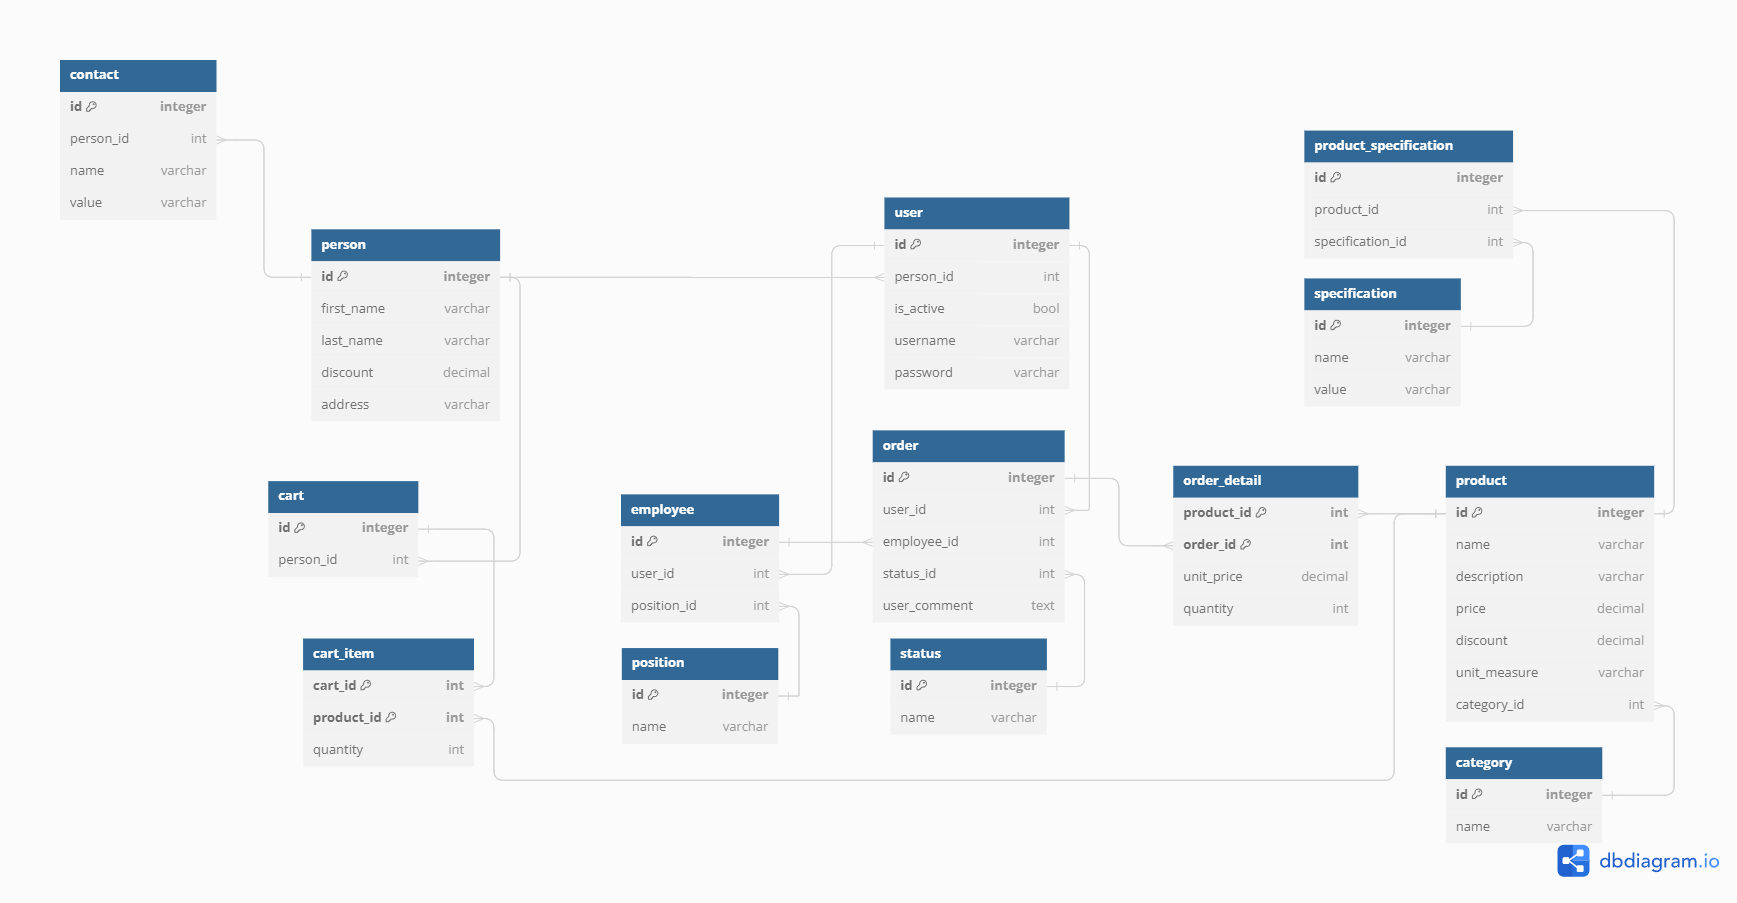
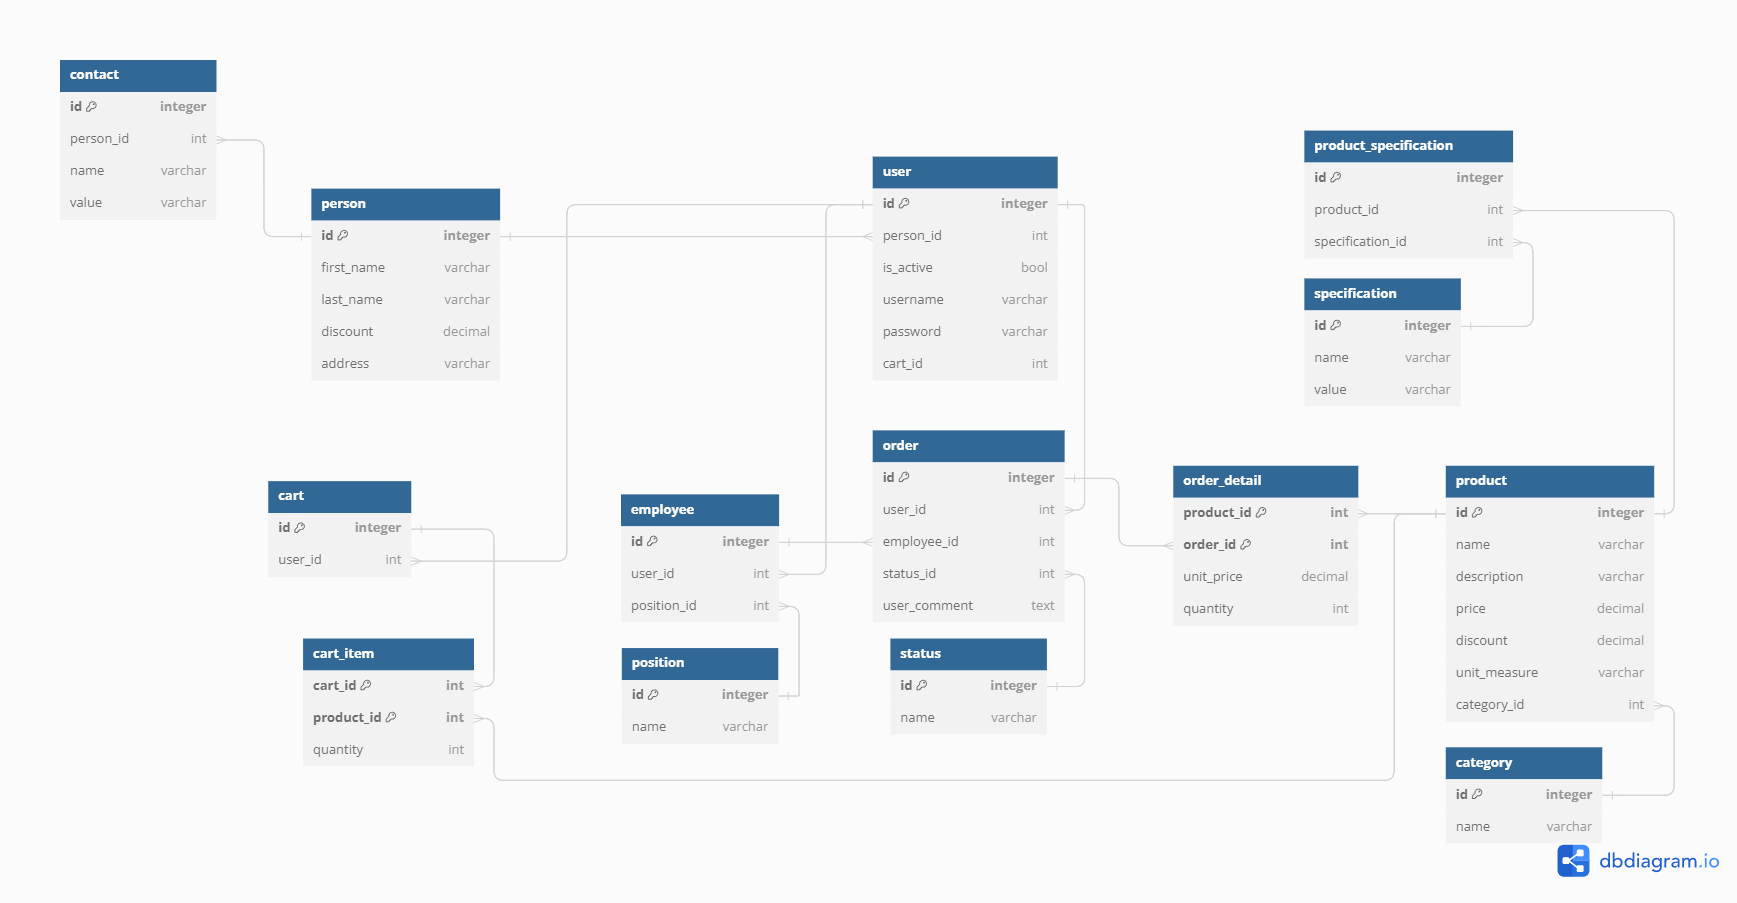
Configure entities.

diff --git a/ProductStoreApi/DataLayer/Infrastructure/StoreDbContext.cs b/ProductStoreApi/DataLayer/Infrastructure/StoreDbContext.cs
@@ -1,6 +1,7 @@
 using Microsoft.EntityFrameworkCore;
 using StoreDAL.Entities;
 using StoreDAL.Infrastructure.Data;
+using StoreDAL.Interfaces.Repositories;
 
 namespace StoreDAL.Infrastructure
 {
@@ -29,6 +30,7 @@ namespace StoreDAL.Infrastructure
 
         protected override void OnModelCreating(ModelBuilder modelBuilder)
         {
+			// Seed database
 			modelBuilder.Entity<IContactRepository>().HasData(factory.GetContactData());
 			modelBuilder.Entity<IPersonRepository>().HasData(factory.GetPersonData());
 			modelBuilder.Entity<IUserRepository>().HasData(factory.GetUserData());
@@ -40,7 +42,134 @@ namespace StoreDAL.Infrastructure
 			modelBuilder.Entity<IOrderRepository>().HasData(factory.GetOrderData());
 			modelBuilder.Entity<IOrderDetailRepository>().HasData(factory.GetOrderDetailData());
 
-            base.OnModelCreating(modelBuilder);
+			// Configure entities
+			modelBuilder.Entity<Contact>(entity =>
+			{
+				entity.HasOne(c => c.Person)
+					  .WithMany(p => p.Contacts)
+					  .HasForeignKey(c => c.PersonId);
+			});
+
+			modelBuilder.Entity<Person>(entity =>
+			{
+				entity.HasMany(p => p.Contacts)
+					  .WithOne(c => c.Person)
+					  .HasForeignKey(p => p.PersonId);
+
+				entity.HasOne(p => p.User)
+					  .WithOne(u => u.Person)
+					  .HasForeignKey<User>(u => u.PersonId);
+			});
+
+			modelBuilder.Entity<User>(entity =>
+			{
+				entity.HasOne(u => u.Person)
+					  .WithOne(p => p.User)
+					  .HasForeignKey<User>(p => p.PersonId);
+
+				entity.HasOne(u => u.Cart)
+					  .WithOne(c => c.User)
+					  .HasForeignKey<Cart>(c => c.UserId);
+
+				entity.HasMany(u => u.Orders)
+					  .WithOne(o => o.User)
+					  .HasForeignKey(o => o.UserId);
+			});
+
+			modelBuilder.Entity<Position>(entity =>
+			{
+				entity.HasMany(p => p.Employees)
+					  .WithOne(e => e.Position)
+					  .HasForeignKey(p => p.PositionId);
+			});
+
+			modelBuilder.Entity<Employee>(entity =>
+			{
+				entity.HasOne(e => e.User)
+					  .WithOne()
+					  .HasForeignKey<Employee>(e => e.UserId);
+
+				entity.HasOne(e => e.Position)
+					  .WithMany(p => p.Employees)
+					  .HasForeignKey(e => e.PositionId);
+			});
+
+			modelBuilder.Entity<Category>(entity =>
+			{
+				entity.HasMany(c => c.Products)
+					  .WithOne(p => p.Category)
+					  .HasForeignKey(p => p.CategoryId);
+			});
+
+			modelBuilder.Entity<Specification>(entity =>
+			{
+				entity.HasMany(s => s.Products)
+					  .WithMany(p => p.Specifications);
+			});
+
+			modelBuilder.Entity<Product>(entity =>
+			{
+				entity.HasOne(p => p.Category)
+					  .WithMany(c => c.Products)
+					  .HasForeignKey(p => p.CategoryId);
+
+				entity.HasMany(p => p.Specifications)
+					  .WithMany(s => s.Products);
+			});
+
+			modelBuilder.Entity<Order>(entity =>
+			{
+				entity.HasOne(o => o.User)
+					  .WithMany(u => u.Orders)
+					  .HasForeignKey(o => o.UserId);
+
+				entity.HasOne(o => o.Employee)
+					  .WithMany(e => e.Orders)
+					  .HasForeignKey(o => o.EmployeeId);
+
+				entity.HasOne(o => o.Status)
+					  .WithMany()
+					  .HasForeignKey(o => o.StatusId);
+
+				entity.HasMany(o => o.Details)
+					  .WithOne(d => d.Order)
+					  .HasForeignKey(d => d.OrderId);
+			});
+
+			modelBuilder.Entity<OrderDetail>(entity =>
+			{
+				entity.HasKey(d => new { d.ProductId, d.OrderId });
+
+				entity.HasOne(d => d.Order)
+					  .WithMany(o => o.Details)
+					  .HasForeignKey(d => d.OrderId);
+
+				entity.HasOne(d => d.Product)
+					  .WithMany()
+					  .HasForeignKey(d => d.ProductId);
+			});
+
+			modelBuilder.Entity<Cart>(entity =>
+			{
+				entity.HasOne(c => c.User)
+					  .WithOne(p => p.Cart)
+					  .HasForeignKey<Cart>(c => c.UserId);
+			});
+
+			modelBuilder.Entity<CartItem>(entity =>
+			{
+				entity.HasKey(i => new { i.ProductId, i.CartId });
+
+				entity.HasOne(i => i.Cart)
+					  .WithMany(c => c.CartItems)
+					  .HasForeignKey(i => i.CartId);
+
+				entity.HasOne(i => i.Product)
+					  .WithMany()
+					  .HasForeignKey(i => i.ProductId);
+			});
+
+			base.OnModelCreating(modelBuilder);
         }
     }
 }

diff --git a/ProductStoreApi/DataLayer/Entities/Cart.cs b/ProductStoreApi/DataLayer/Entities/Cart.cs
@@ -4,10 +4,10 @@ namespace StoreDAL.Entities
 {
 	public class Cart : BaseEntity
 	{
-		[Column("person_id")]
-		public long PersonId { get; set; }
+		[Column("user_id")]
+		public long UserId { get; set; }
 
-		public virtual Person Person { get; set; } = null!;
+		public virtual User User { get; set; } = null!;
 
 		public virtual IEnumerable<CartItem> CartItems { get; set; } = Enumerable.Empty<CartItem>();
 

diff --git a/ProductStoreApi/DataLayer/Entities/Person.cs b/ProductStoreApi/DataLayer/Entities/Person.cs
@@ -15,7 +15,7 @@ namespace StoreDAL.Entities
 		public string Address { get; set; } = string.Empty;
 
 		public virtual User User { get; set; } = null!;
-		public virtual Cart Cart { get; set; } = null!;
+		public virtual IEnumerable<Contact> Contacts { get; set; } = Enumerable.Empty<Contact>();
 
 		public Person(int id) : base(id) { }
 	}

diff --git a/ProductStoreApi/DataLayer/Entities/User.cs b/ProductStoreApi/DataLayer/Entities/User.cs
@@ -14,7 +14,7 @@ namespace StoreDAL.Entities
 		public string Password { get; set; } = null!;
 
 		public virtual Person Person { get; set; } = null!;
-
+		public virtual Cart Cart { get; set; } = null!;
 		public virtual IEnumerable<Order> Orders { get; set; } = Enumerable.Empty<Order>();
 
 		public User(int id) : base(id) { }

diff --git a/ProductStoreApi/DataLayer/Entities/Employee.cs b/ProductStoreApi/DataLayer/Entities/Employee.cs
@@ -14,6 +14,8 @@ namespace StoreDAL.Entities
 		public virtual User User { get; set; } = null!;
 		public virtual Position Position { get; set; } = null!;
 
+		public virtual IEnumerable<Order> Orders { get; set; }
+
 		public Employee(int id) : base(id) { }
 	}
 }

diff --git a/ProductStoreApi/DataLayer/Infrastructure/Data/IDataFactory.cs b/ProductStoreApi/DataLayer/Infrastructure/Data/IDataFactory.cs
@@ -1,9 +1,4 @@
-using System;
-using System.Collections.Generic;
-using System.Linq;
-using System.Text;
-using System.Threading.Tasks;
-using StoreDAL.Entities;
+using StoreDAL.Interfaces.Repositories;
 
 namespace StoreDAL.Infrastructure.Data
 {

diff --git a/ProductStoreApi/DataLayer/Infrastructure/Data/AbstractDataFactory.cs b/ProductStoreApi/DataLayer/Infrastructure/Data/AbstractDataFactory.cs
@@ -1,4 +1,4 @@
-using StoreDAL.Entities;
+using StoreDAL.Interfaces.Repositories;
 
 namespace StoreDAL.Infrastructure.Data
 {
